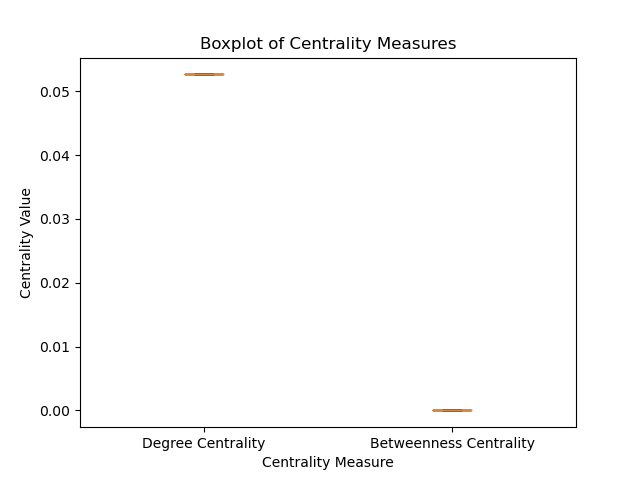
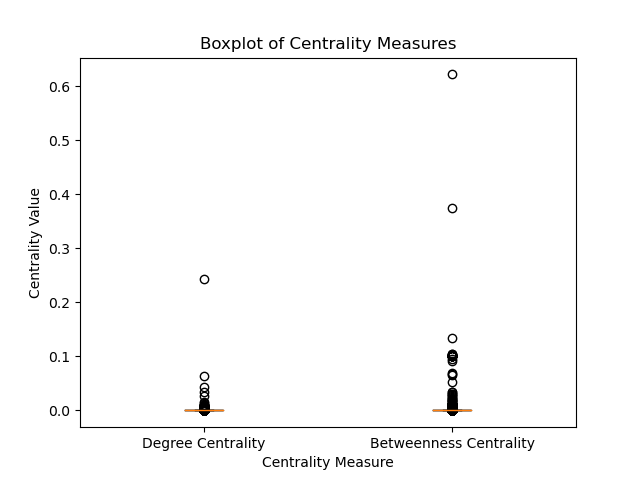
rewrite port scan

diff --git a/Pre_processing/port_scan.py b/Pre_processing/port_scan.py
@@ -1,35 +1,35 @@
 import json
 from collections import defaultdict
+import matplotlib.pyplot as plt
 
-# Set the path to the JSON-like text file
 DST = "../data_demo"
 input_file = DST + "/input.txt"
+results = defaultdict(set)
 
-# Define dictionaries to store the IP counts for each port
-srcport_ip_counts = defaultdict(set)
-dstport_ip_counts = defaultdict(set)
-
-# Read the JSON-like text file and iterate over the lines
-with open(input_file) as f:
-    for line in f:
+# Open the text file and read the data
+with open(input_file, 'r') as file:
+    for record in file:
         try:
-            flow = json.loads(line.strip())
+            flow = json.loads(record.strip())
         except json.JSONDecodeError:
             continue  # skip lines that are not valid JSON
         src_port = flow.get("_source", {}).get("srcport", None)
         dst_port = flow.get("_source", {}).get("dstport", None)
         src_ip = flow.get("_source", {}).get("srcip", None)
         dst_ip = flow.get("_source", {}).get("dstip", None)
-        if src_port and src_ip:
-            srcport_ip_counts[src_port].add(src_ip)
-        if dst_port and dst_ip:
-            dstport_ip_counts[dst_port].add(dst_ip)
 
-# Print the IP counts for each port in the order of increasing number of unique IPs
-print("Unique source IPs for each source port:")
-for port, ip_set in sorted(srcport_ip_counts.items(), key=lambda x: len(x[1])):
-    print(f"Source port {port} has {len(ip_set)} unique source IPs.")
+        key = (src_ip, dst_ip)
+        value = src_port
 
-print("\nUnique destination IPs for each destination port:")
-for port, ip_set in sorted(dstport_ip_counts.items(), key=lambda x: len(x[1])):
-    print(f"Destination port {port} has {len(ip_set)} unique destination IPs.")
+        results[key].add(value)
+
+for key, values in sorted(results.items(), key=lambda item: len(item[1]), reverse=True):
+    print(key, len(values))
+
+# Get the lengths of the values sets
+# lengths = [len(values) for values in results.values()]
+# fig, ax = plt.subplots()
+# ax.boxplot(lengths)
+# ax.set_ylabel('Length of values')
+# plt.show()
+# fig.savefig(DST + '/' + "_portscan_boxplot.png")

diff --git a/Pre_processing/test_code.py b/Pre_processing/test_code.py
@@ -1,0 +1,35 @@
+import json
+from collections import defaultdict
+
+# Set the path to the JSON-like text file
+DST = "../data_demo"
+input_file = DST + "/input.txt"
+
+# Define dictionaries to store the IP counts for each port
+srcport_ip_counts = defaultdict(set)
+dstport_ip_counts = defaultdict(set)
+
+# Read the JSON-like text file and iterate over the lines
+with open(input_file) as f:
+    for line in f:
+        try:
+            flow = json.loads(line.strip())
+        except json.JSONDecodeError:
+            continue  # skip lines that are not valid JSON
+        src_port = flow.get("_source", {}).get("srcport", None)
+        dst_port = flow.get("_source", {}).get("dstport", None)
+        src_ip = flow.get("_source", {}).get("srcip", None)
+        dst_ip = flow.get("_source", {}).get("dstip", None)
+        if src_port and src_ip:
+            srcport_ip_counts[src_port].add(src_ip)
+        if dst_port and dst_ip:
+            dstport_ip_counts[dst_port].add(dst_ip)
+
+# Print the IP counts for each port in the order of increasing number of unique IPs
+print("Unique source IPs for each source port:")
+for port, ip_set in sorted(srcport_ip_counts.items(), key=lambda x: len(x[1])):
+    print(f"Source port {port} has {len(ip_set)} unique source IPs.")
+
+print("\nUnique destination IPs for each destination port:")
+for port, ip_set in sorted(dstport_ip_counts.items(), key=lambda x: len(x[1])):
+    print(f"Destination port {port} has {len(ip_set)} unique destination IPs.")

diff --git a/Graph_building/graph_generate.py b/Graph_building/graph_generate.py
@@ -27,6 +27,8 @@ with open(edges_input, newline='') as f:
 
 # Print out edges list
 # print(edges)
+# er = nx.erdos_renyi_graph(100, 0.15)
+# K_5 = nx.complete_graph(5)
 
 # create a new directed graph
 DG = nx.DiGraph()
@@ -59,7 +61,7 @@ print("===============================================")
 
 # compute degree centrality
 print("Top 10 nodes by degree centrality:\n")
-dc = nx.degree_centrality(DG)
+dc = nx.degree_centrality(H)
 top_nodes = sorted(dc.items(), key=lambda x: x[1], reverse=True)[:10]
 for node, dc in top_nodes:
     print(f"{node}: {dc}")
